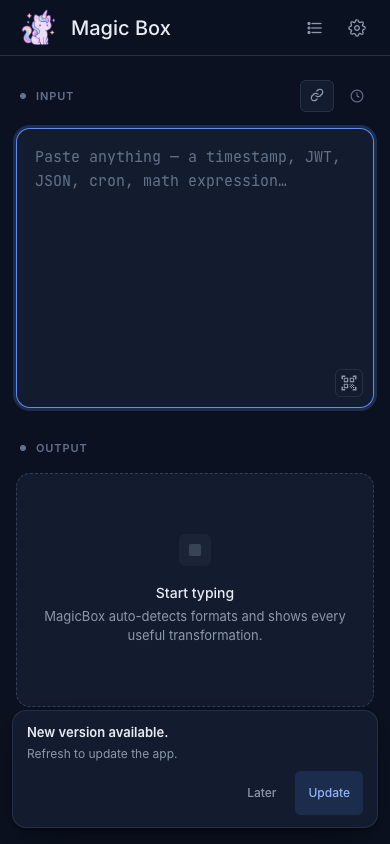
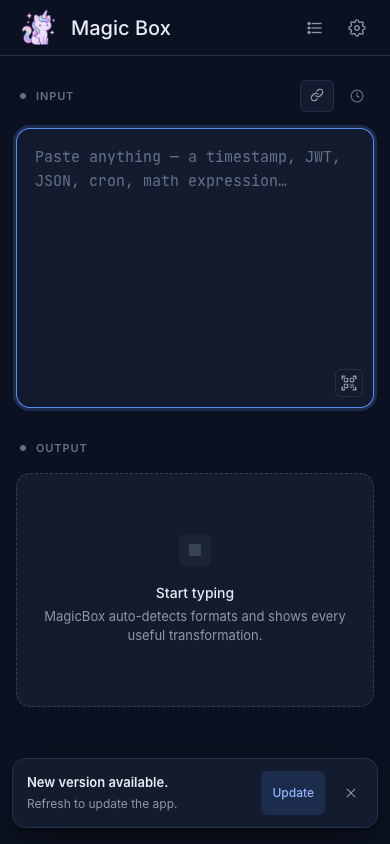
fix(pwa): simplify mobile prompt into a compact notification

Changed region(s): [[0.0615, 0.8626, 0.4615, 0.955], [0.6462, 0.8934, 0.9538, 0.9858]]

diff --git a/src/components/PwaUpdatePrompt/index.tsx b/src/components/PwaUpdatePrompt/index.tsx
@@ -197,24 +197,31 @@ const PwaUpdatePrompt = (): React.JSX.Element | null => {
           <p className="pwa-update-title">{t('pwa.newVersion')}</p>
           <p className="pwa-update-hint">{t('pwa.refreshHint')}</p>
         </div>
-        <div className="pwa-update-actions">
-          <button
-            className="pwa-update-button"
-            disabled={upgrading}
-            onClick={handleLater}
-            type="button"
-          >
-            {t('pwa.later')}
-          </button>
-          <button
-            className="pwa-update-button pwa-update-button-primary"
-            disabled={upgrading}
-            onClick={() => void handleRefresh()}
-            type="button"
-          >
-            {t('pwa.refresh')}
-          </button>
-        </div>
+        <button
+          className="pwa-update-button pwa-update-button-primary"
+          disabled={upgrading}
+          onClick={() => void handleRefresh()}
+          type="button"
+        >
+          {t('pwa.refresh')}
+        </button>
+        <button
+          aria-label={t('pwa.later')}
+          className="pwa-update-button pwa-update-close"
+          disabled={upgrading}
+          onClick={handleLater}
+          type="button"
+        >
+          <svg aria-hidden="true" width="16" height="16" viewBox="0 0 24 24">
+            <path
+              d="m6 6 12 12M18 6 6 18"
+              fill="none"
+              stroke="currentColor"
+              strokeLinecap="round"
+              strokeWidth="1.5"
+            />
+          </svg>
+        </button>
       </div>
     </Snackbar>
   );

diff --git a/src/components/PwaUpdatePrompt/styles.css b/src/components/PwaUpdatePrompt/styles.css
@@ -1,10 +1,11 @@
 .pwa-update-prompt {
-  display: flex;
+  display: grid;
+  grid-template-columns: minmax(0, 1fr) auto auto;
   align-items: center;
-  gap: 24px;
+  gap: 8px;
   width: max-content;
   max-width: min(480px, calc(100vw - 48px));
-  padding: 14px 16px;
+  padding: 12px 8px 12px 16px;
   border: 1px solid var(--line);
   border-radius: var(--radius-lg);
   background: var(--bg-elev);
@@ -30,13 +31,6 @@
   color: var(--ink-3);
   font-size: 12px;
   line-height: 1.5;
-}
-
-.pwa-update-actions {
-  display: flex;
-  flex-shrink: 0;
-  align-items: center;
-  gap: 6px;
 }
 
 .pwa-update-button {
@@ -79,22 +73,30 @@
   cursor: default;
 }
 
+.pwa-update-close {
+  display: grid;
+  place-items: center;
+  width: 32px;
+  padding: 0;
+}
+
 @media (max-width: 599.95px) {
   .pwa-update-prompt {
-    flex-direction: column;
-    align-items: stretch;
-    gap: 8px;
+    gap: 4px;
     width: 100%;
     max-width: 400px;
-    padding: 12px 14px;
+    padding: 12px 4px 12px 14px;
   }
 
-  .pwa-update-actions {
-    justify-content: flex-end;
+  .pwa-update-copy {
+    padding-right: 8px;
   }
 
   .pwa-update-button {
     min-height: 44px;
-    padding-inline: 12px;
+  }
+
+  .pwa-update-close {
+    width: 44px;
   }
 }
